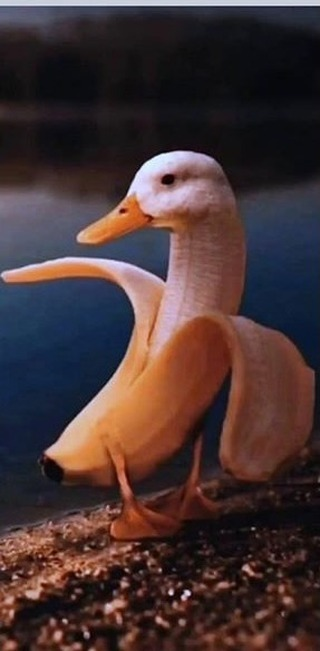
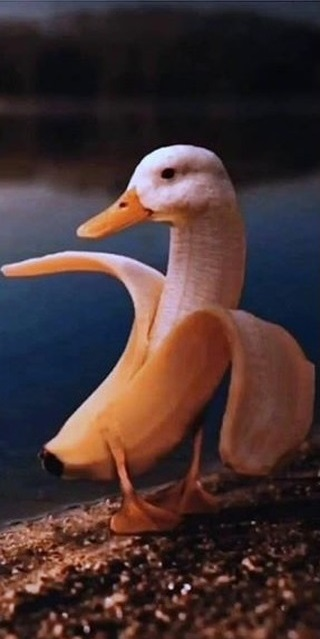
background fades opening goose card

diff --git a/js/gooseGrid.js b/js/gooseGrid.js
@@ -71,8 +71,12 @@ function showGooseDisplay(goose){
     document.getElementById("lgdImg").src = goose.children[0].src;
     document.getElementById("lgdName").innerHTML = goose.children[1].children[0].innerHTML;
     document.getElementById("lgdDescription").innerHTML = goose.children[1].children[1].innerHTML;
+    document.getElementById("darkenOverlay").style.visibility = "visible";
+    document.getElementById("darkenOverlay").style.opacity = 1;
 }
 
 function closeGooseDisplay(){
     document.getElementById("largeGooseDisplay").style.top = "150%";
+    document.getElementById("darkenOverlay").style.visibility = "hidden";
+    document.getElementById("darkenOverlay").style.opacity = 0;
 }

diff --git a/css/main.css b/css/main.css
@@ -16,3 +16,25 @@ a:link, a:visited {
 body {
     margin: 0px;
 }
+
+
+#gooseOfTheDay {
+    background-color: rgb(34, 54, 54);
+    margin-left: -16px;
+    margin-right: -16px;
+    padding: 16px;
+    margin-top: 16px;
+}
+
+#darkenOverlay {
+    visibility: hidden;
+    background-color: rgba(0,0,0,0.5);
+    position:fixed;
+    left:0;
+    top: 0;
+    width:100%;
+    height:100%;
+    z-index: 15;
+    opacity: 0;
+    transition: 0.5s all;
+}

diff --git a/index.html b/index.html
@@ -13,6 +13,7 @@ title: Home
         <p id="lgdDescription">This is a test goose</p>
     </div>
 </div>
+<div id="darkenOverlay"></div>
 
 <h1>Welcome to the Gallery of Geese</h1>
 The gallery of geese is an archive of some of the best geese known to man. To learn more about the history of the gallery and the motives of The Goose Lord, read our <a href="/about">about</a> page.

diff --git a/css/goosegrid.css b/css/goosegrid.css
@@ -31,7 +31,7 @@
 .gooseCard div {
     position: absolute;
     top: 0px;
-    height: calc(100% - 20px);
+    height: calc(100% - 16px);
     width: calc(100% - 16px);
     color:rgba(0, 0, 0, 0);
     cursor: pointer;
